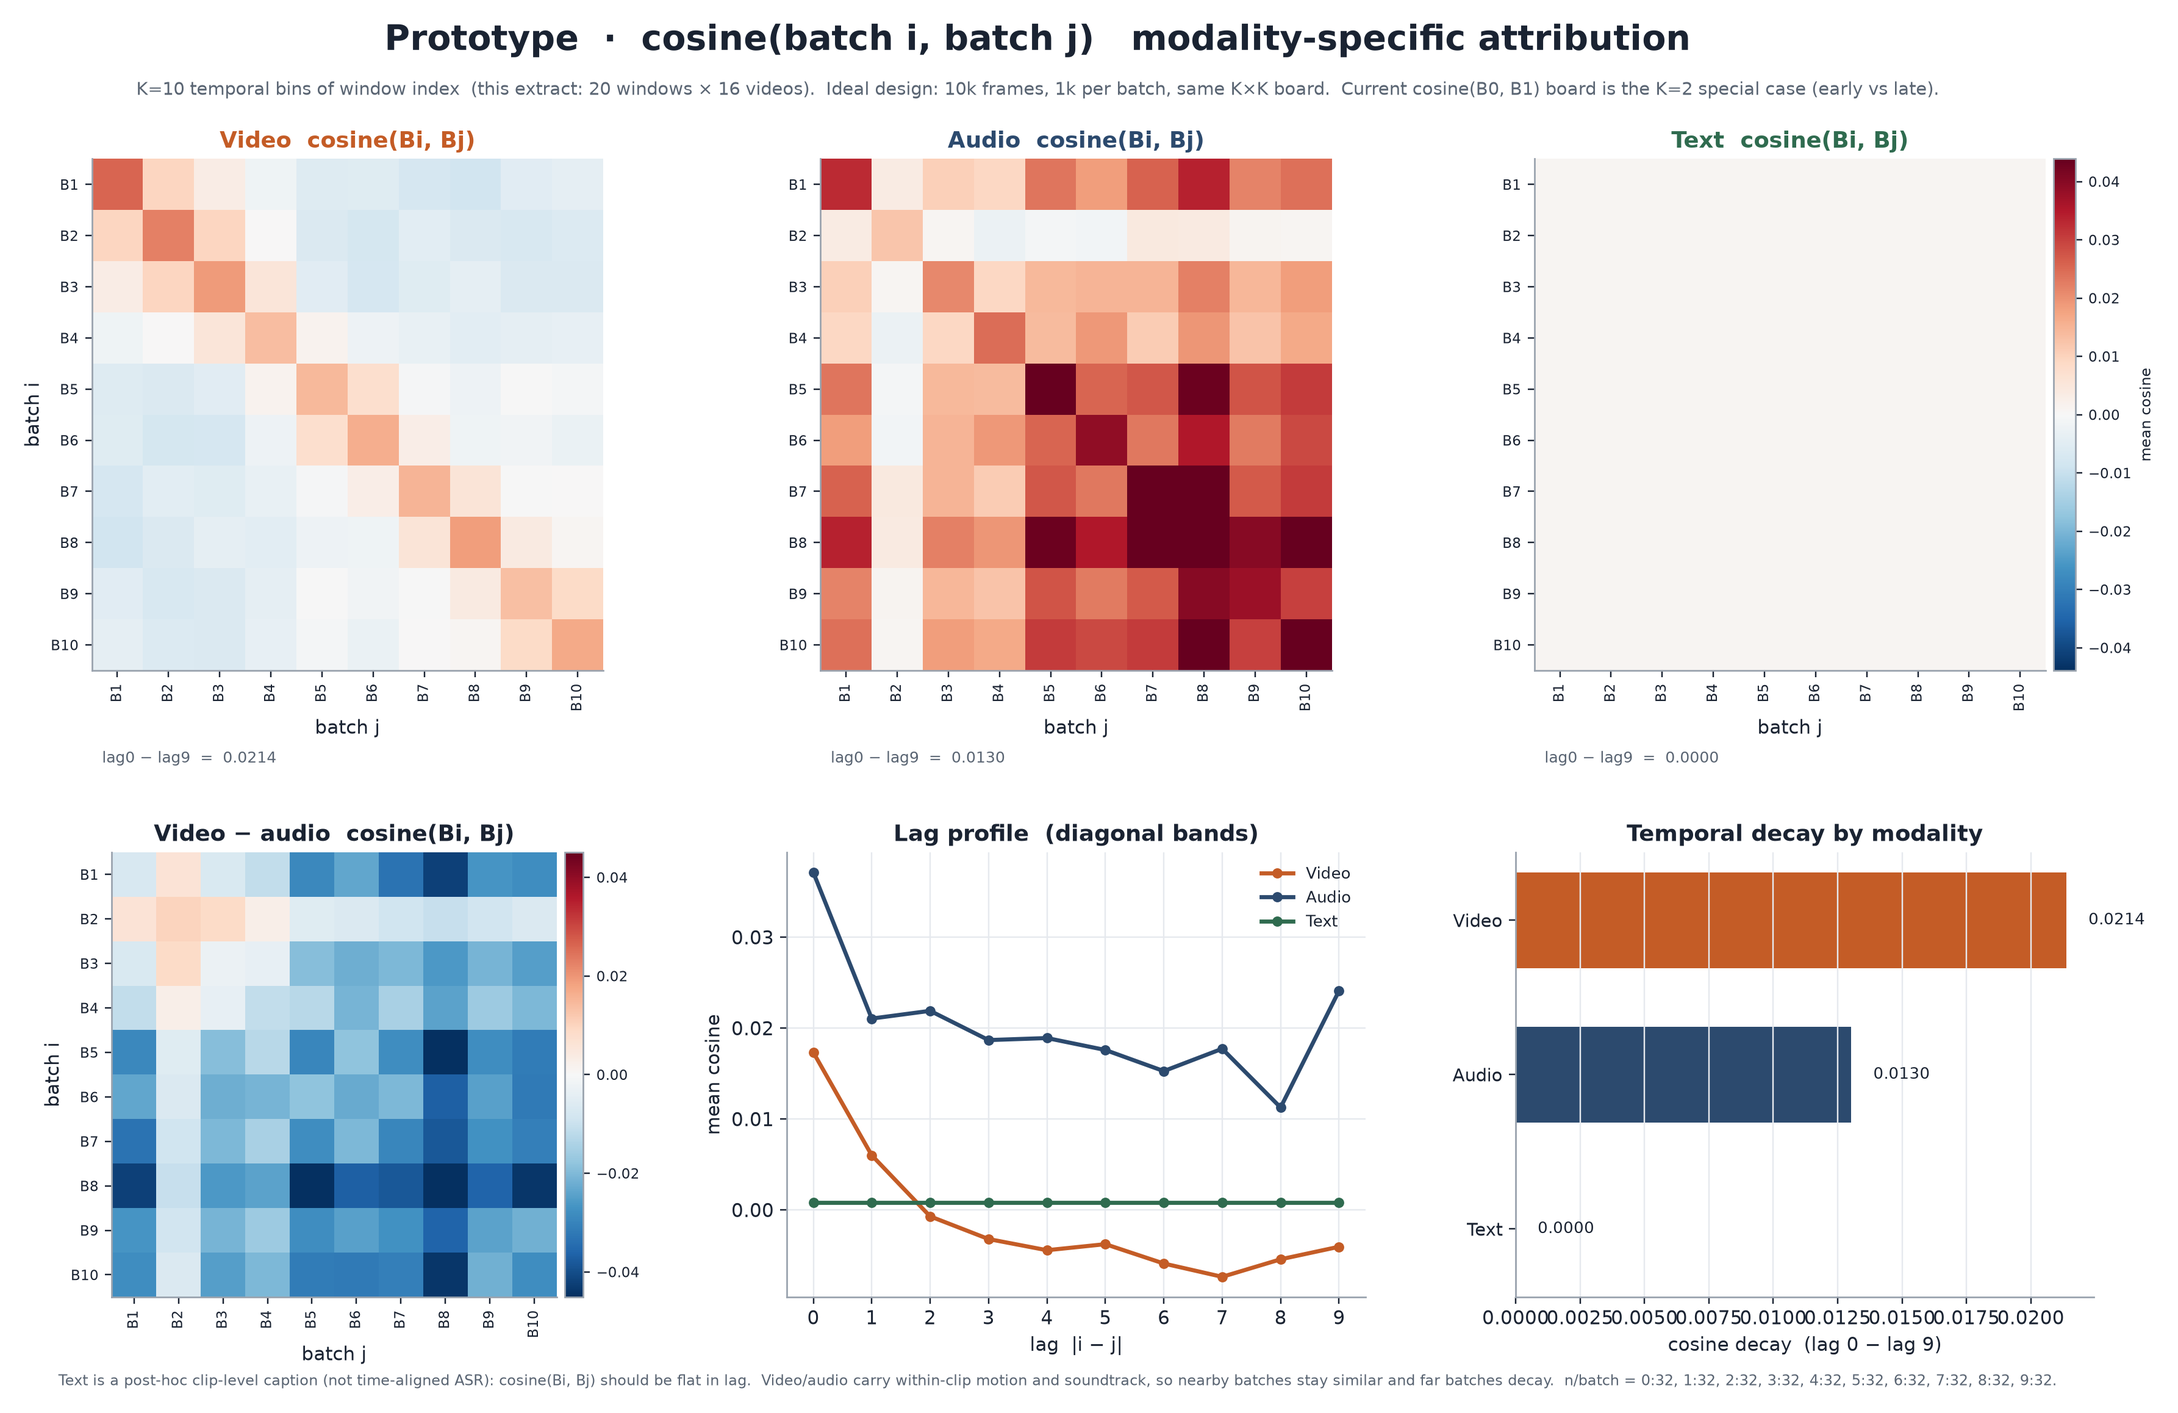
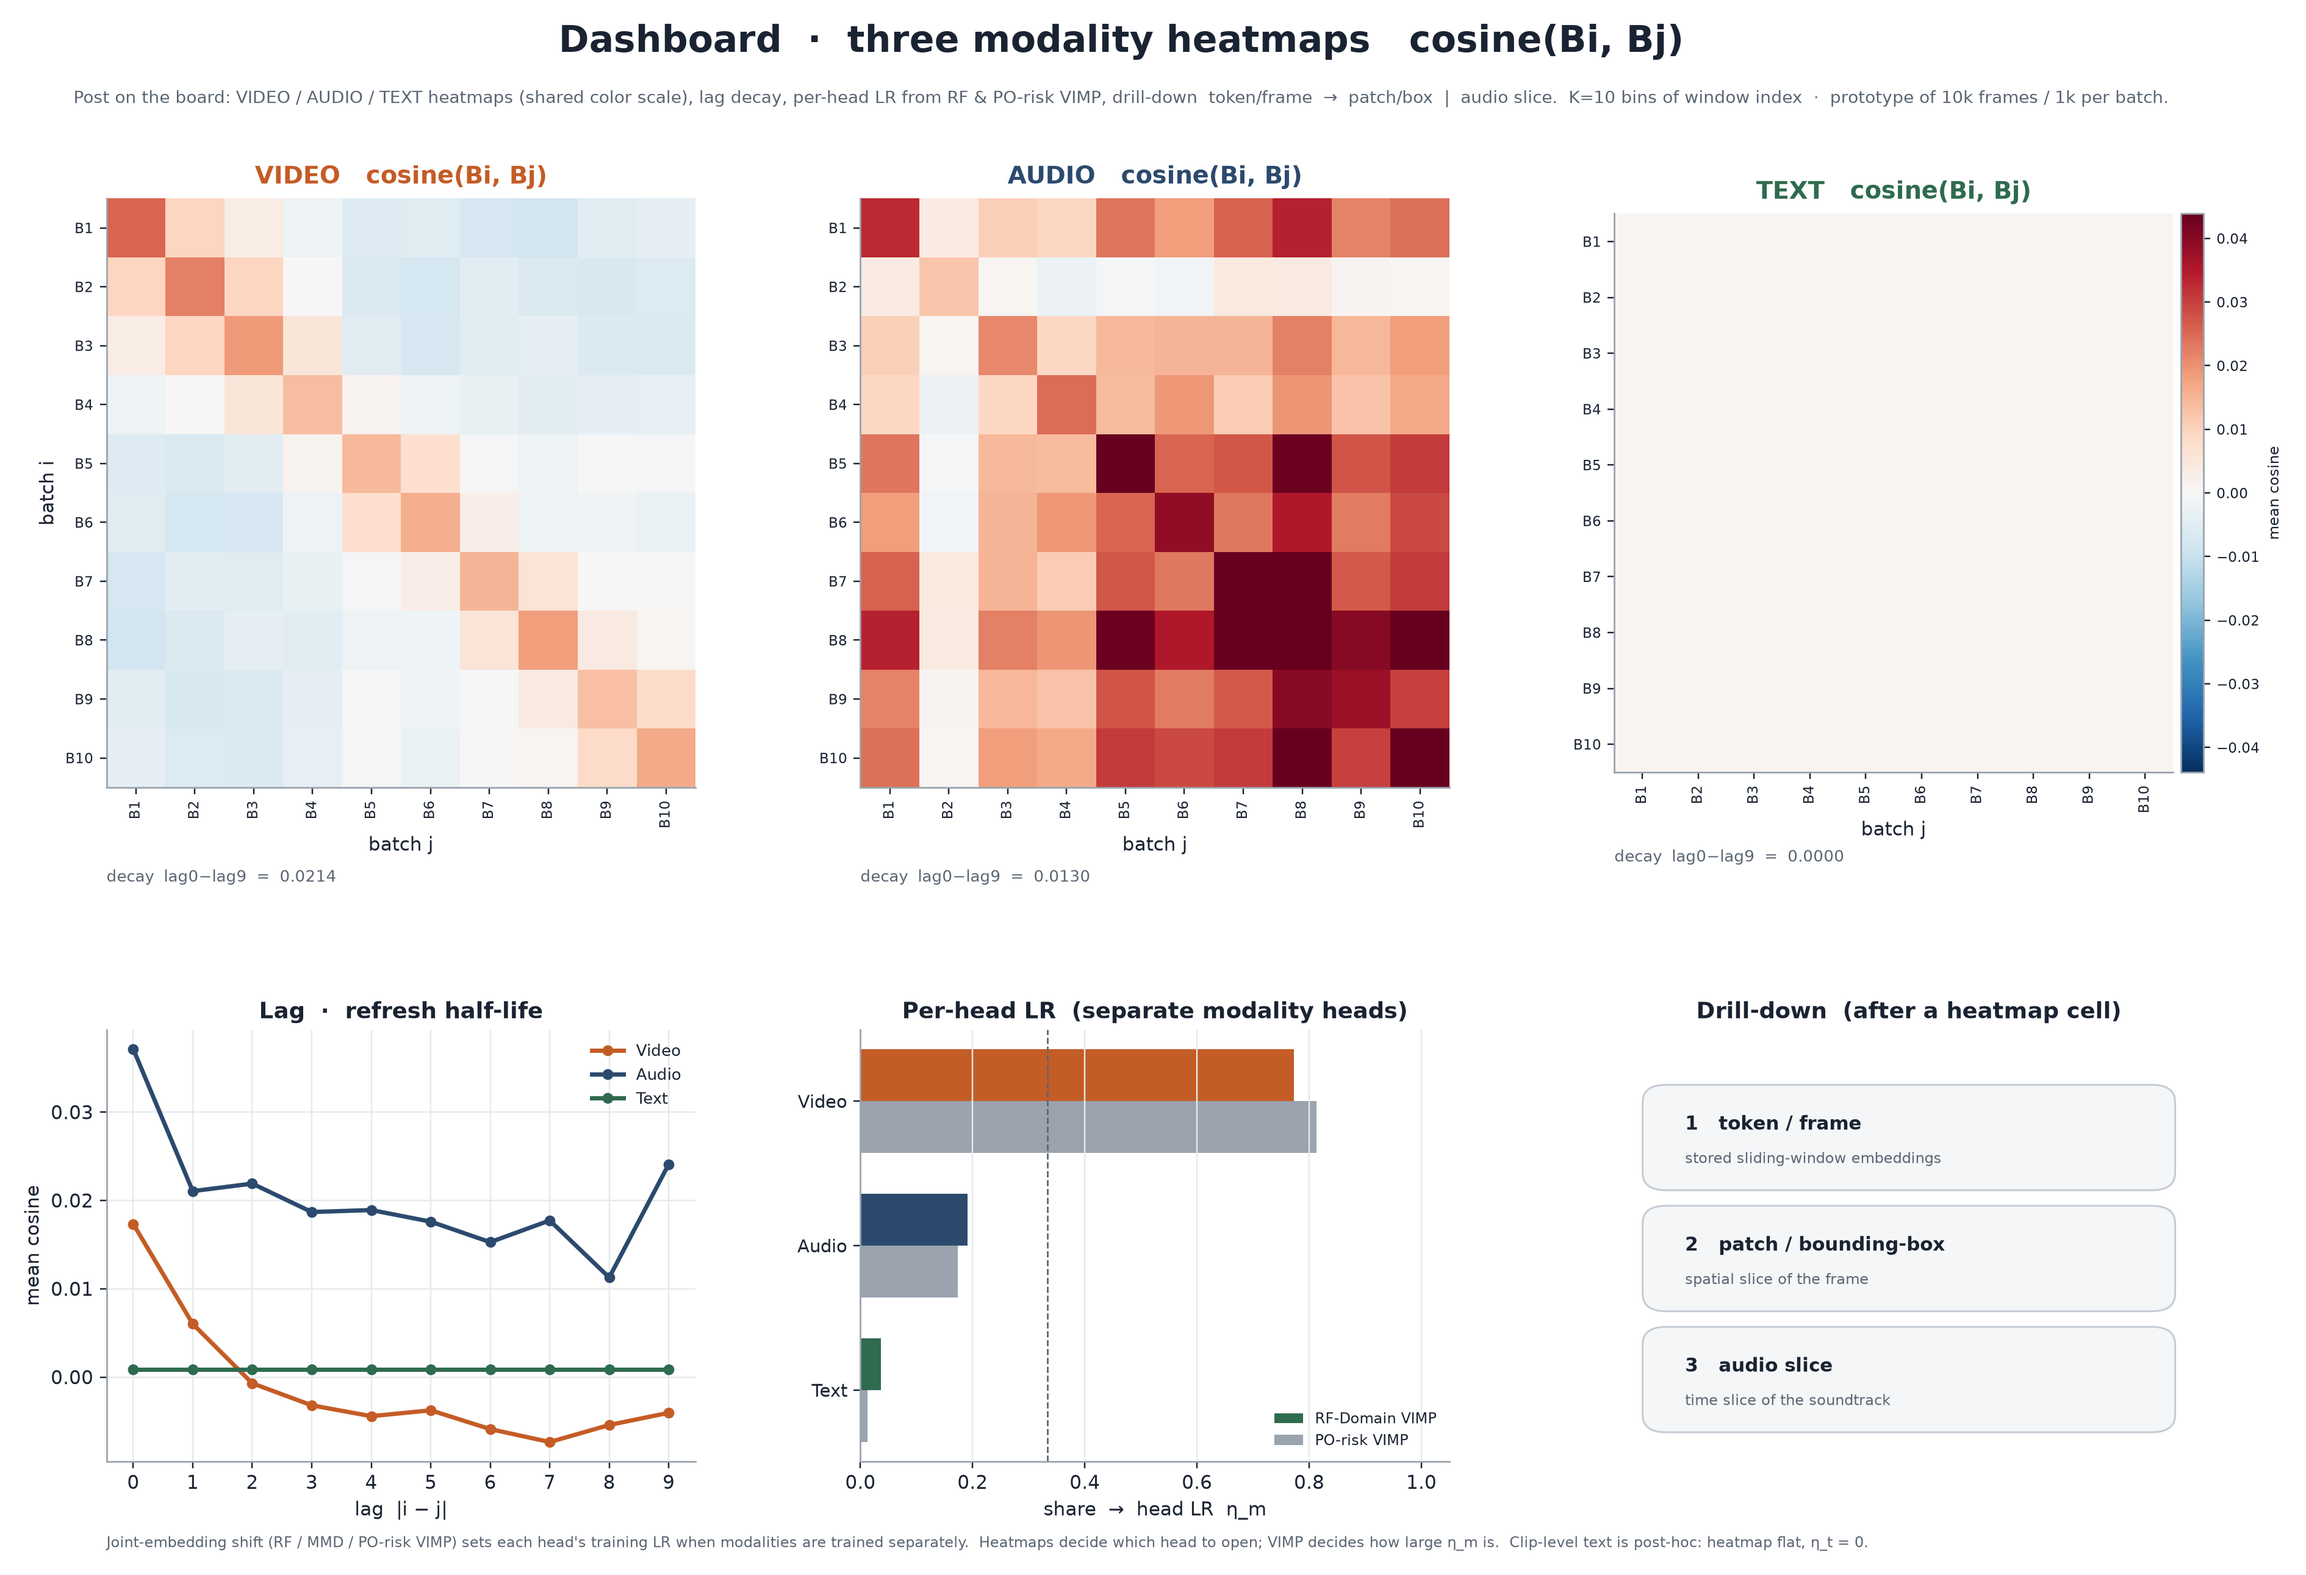
Polish the product dashboard: three modality heatmaps, per-head LR, drill-down.
Board posts VIDEO/AUDIO/TEXT cosine(Bi,Bj), lag half-life, RF/PO-risk
shares as head learning-rate weights, and token/frame → patch/box | audio slice.

diff --git a/Python/src/msrvtt_attribution_plots.py b/Python/src/msrvtt_attribution_plots.py
@@ -464,7 +464,9 @@ def plot_batch_region_board(bundle, result, path: Path, pay=None):
 
 
 def plot_batch_pair_board(bundle, result, path: Path, pay=None, n_batches=10):
-    """Prototype heatmap: cosine(batch i, batch j) per modality."""
+    """Product dashboard: three modality cosine(Bi, Bj) heatmaps + head LR + drill-down."""
+    from matplotlib.patches import FancyBboxPatch
+    from mpl_toolkits.axes_grid1 import make_axes_locatable
     from msrvtt_multimodal_attribution import GROUP_NAMES, batch_pair_payload
 
     _style()
@@ -478,41 +480,42 @@ def plot_batch_pair_board(bundle, result, path: Path, pay=None, n_batches=10):
     vmax = float(np.nanpercentile(np.abs(stacked), 98)) if stacked.size else 0.01
     vmax = max(vmax, 1e-4)
     nrm = TwoSlopeNorm(vmin=-vmax, vcenter=0.0, vmax=vmax)
+    point = (result or {}).get("point") or {}
+    rf = point.get("rf_share") or {"video": 0.772, "audio": 0.191, "text": 0.037}
+    po = point.get("po_feat_share") or {"video": 0.813, "audio": 0.174, "text": 0.013}
 
-    fig = plt.figure(figsize=(16.4, 10.6), dpi=210)
+    fig = plt.figure(figsize=(16.8, 11.8), dpi=210)
     fig.patch.set_facecolor("white")
     gs = GridSpec(
         2,
         3,
         figure=fig,
-        height_ratios=[1.15, 1.0],
-        hspace=0.38,
-        wspace=0.26,
-        left=0.055,
+        height_ratios=[1.38, 0.95],
+        hspace=0.42,
+        wspace=0.28,
+        left=0.05,
         right=0.98,
         top=0.88,
-        bottom=0.08,
+        bottom=0.07,
     )
     fig.suptitle(
-        "Prototype  ·  cosine(batch i, batch j)   modality-specific attribution",
-        fontsize=18.5,
+        "Dashboard  ·  three modality heatmaps   cosine(Bi, Bj)",
+        fontsize=19.5,
         fontweight="bold",
         color=INK,
-        y=0.975,
+        y=0.978,
     )
     fig.text(
         0.5,
-        0.925,
-        "K=%d temporal bins of window index  (this extract: %d windows × %d videos).  "
-        "Ideal design: 10k frames, 1k per batch, same K×K board.  "
-        "Current cosine(B0, B1) board is the K=2 special case (early vs late)."
-        % (k, pay.get("n_windows", 20), pay.get("n_videos", 16)),
+        0.928,
+        "Post on the board: VIDEO / AUDIO / TEXT heatmaps (shared color scale), lag decay, "
+        "per-head LR from RF & PO-risk VIMP, drill-down  token/frame  →  patch/box  |  audio slice.  "
+        "K=%d bins of window index  ·  prototype of 10k frames / 1k per batch."
+        % k,
         ha="center",
-        fontsize=9.4,
+        fontsize=9.3,
         color=MUTED,
     )
-
-    from mpl_toolkits.axes_grid1 import make_axes_locatable
 
     last_im = None
     for i, name in enumerate(GROUP_NAMES):
@@ -521,91 +524,102 @@ def plot_batch_pair_board(bundle, result, path: Path, pay=None, n_batches=10):
         last_im = ax.imshow(M, cmap="RdBu_r", norm=nrm, origin="upper", interpolation="nearest")
         ax.set_xticks(ticks)
         ax.set_yticks(ticks)
-        ax.set_xticklabels(labs, fontsize=7.5, rotation=90)
-        ax.set_yticklabels(labs, fontsize=7.5)
+        ax.set_xticklabels(labs, fontsize=7.4, rotation=90)
+        ax.set_yticklabels(labs, fontsize=7.4)
         ax.set_title(
-            name.capitalize() + "  cosine(Bi, Bj)",
-            fontsize=12.2,
+            name.upper() + "   cosine(Bi, Bj)",
+            fontsize=13.2,
             fontweight="bold",
             color=COLORS[name],
+            pad=8,
         )
         ax.set_xlabel("batch j")
         if i == 0:
             ax.set_ylabel("batch i")
         gap = pay["lag0_minus_lagmax"].get(name, float("nan"))
         ax.text(
-            0.02,
-            -0.18,
-            "lag0 − lag%d  =  %.4f" % (k - 1, gap),
+            0.0,
+            -0.16,
+            "decay  lag0−lag%d  =  %.4f" % (k - 1, gap),
             transform=ax.transAxes,
-            fontsize=8.2,
+            fontsize=8.4,
             color=MUTED,
             clip_on=False,
         )
         if i == 2:
             div = make_axes_locatable(ax)
-            cax = div.append_axes("right", size="4.2%", pad=0.06)
+            cax = div.append_axes("right", size="4.0%", pad=0.06)
             cbar = fig.colorbar(last_im, cax=cax)
             cbar.set_label("mean cosine", fontsize=8)
             cbar.ax.tick_params(labelsize=7.5)
 
-    axd = fig.add_subplot(gs[1, 0])
-    D = np.asarray(pay["video_minus_audio"], dtype=float)
-    dv = float(np.nanpercentile(np.abs(D[np.isfinite(D)]), 98)) if np.isfinite(D).any() else 0.01
-    dv = max(dv, 1e-4)
-    imd = axd.imshow(D, cmap="RdBu_r", norm=TwoSlopeNorm(vmin=-dv, vcenter=0.0, vmax=dv), interpolation="nearest")
-    axd.set_xticks(ticks)
-    axd.set_yticks(ticks)
-    axd.set_xticklabels(labs, fontsize=7.5, rotation=90)
-    axd.set_yticklabels(labs, fontsize=7.5)
-    axd.set_title("Video − audio  cosine(Bi, Bj)", fontsize=12, fontweight="bold")
-    axd.set_xlabel("batch j")
-    axd.set_ylabel("batch i")
-    divd = make_axes_locatable(axd)
-    caxd = divd.append_axes("right", size="4.2%", pad=0.06)
-    fig.colorbar(imd, cax=caxd).ax.tick_params(labelsize=7.5)
-
-    axl = fig.add_subplot(gs[1, 1])
+    axl = fig.add_subplot(gs[1, 0])
     h = np.arange(k)
     for name in GROUP_NAMES:
         axl.plot(
             h,
             pay["lag_cosine"][name],
             color=COLORS[name],
-            lw=2.2,
+            lw=2.3,
             marker="o",
-            ms=4.5,
+            ms=4.8,
             label=name.capitalize(),
         )
     axl.set_xlabel("lag  |i − j|")
     axl.set_ylabel("mean cosine")
-    axl.set_title("Lag profile  (diagonal bands)", fontsize=12, fontweight="bold")
-    axl.legend(frameon=False, fontsize=8.5)
+    axl.set_title("Lag  ·  refresh half-life", fontsize=12.2, fontweight="bold")
+    axl.legend(frameon=False, fontsize=8.5, loc="upper right")
     axl.grid(True, color=GRID)
     axl.set_xticks(h)
 
-    axb = fig.add_subplot(gs[1, 2])
-    names = list(GROUP_NAMES)
-    vals = [pay["lag0_minus_lagmax"][g] for g in names]
-    axb.barh(np.arange(3)[::-1], vals, color=[COLORS[g] for g in names], height=0.62)
-    axb.set_yticks(np.arange(3)[::-1])
-    axb.set_yticklabels([g.capitalize() for g in names], fontsize=9.5)
-    axb.set_xlabel("cosine decay  (lag 0 − lag %d)" % (k - 1))
-    axb.set_title("Temporal decay by modality", fontsize=12, fontweight="bold")
-    axb.axvline(0, color=MUTED, lw=0.8)
-    axb.grid(True, axis="x", color=GRID)
-    span = max(abs(v) for v in vals) if vals else 0.01
-    span = max(span, 1e-4)
-    for i, v in enumerate(vals):
-        axb.text(v + 0.04 * span * (1 if v >= 0 else -1), 2 - i, "%.4f" % v, va="center", fontsize=8.5, color=INK)
+    axr = fig.add_subplot(gs[1, 1])
+    y = np.arange(3)
+    hgt = 0.36
+    rf_v = [rf[g] for g in GROUP_NAMES]
+    po_v = [po[g] for g in GROUP_NAMES]
+    axr.barh(y + hgt / 2, rf_v[::-1], height=hgt, color=[COLORS[g] for g in GROUP_NAMES][::-1], label="RF-Domain VIMP")
+    axr.barh(y - hgt / 2, po_v[::-1], height=hgt, color="#9AA3AE", label="PO-risk VIMP")
+    axr.set_yticks(y)
+    axr.set_yticklabels(["Text", "Audio", "Video"], fontsize=9.5)
+    axr.set_xlabel("share  →  head LR  η_m")
+    axr.set_title("Per-head LR  (separate modality heads)", fontsize=12.0, fontweight="bold")
+    axr.set_xlim(0, 1.05)
+    axr.axvline(1.0 / 3.0, color=MUTED, ls="--", lw=0.9)
+    axr.legend(frameon=False, fontsize=7.8, loc="lower right")
+    axr.grid(True, axis="x", color=GRID)
+
+    axd = fig.add_subplot(gs[1, 2])
+    axd.set_xlim(0, 1)
+    axd.set_ylim(0, 1)
+    axd.axis("off")
+    axd.set_title("Drill-down  (after a heatmap cell)", fontsize=12.0, fontweight="bold")
+    steps = (
+        (0.72, "1   token / frame", "stored sliding-window embeddings"),
+        (0.44, "2   patch / bounding-box", "spatial slice of the frame"),
+        (0.16, "3   audio slice", "time slice of the soundtrack"),
+    )
+    for y0, title, sub in steps:
+        box = FancyBboxPatch(
+            (0.06, y0 - 0.08),
+            0.88,
+            0.22,
+            boxstyle="round,pad=0.012,rounding_size=0.04",
+            facecolor="#F4F6F8",
+            edgecolor="#C5CCD4",
+            lw=1.0,
+            transform=axd.transAxes,
+            clip_on=False,
+        )
+        axd.add_patch(box)
+        axd.text(0.12, y0 + 0.06, title, transform=axd.transAxes, fontsize=10.2, fontweight="bold", color=INK, va="center")
+        axd.text(0.12, y0 - 0.02, sub, transform=axd.transAxes, fontsize=8.0, color=MUTED, va="center")
 
     fig.text(
-        0.055,
-        0.018,
-        "Text is a post-hoc clip-level caption (not time-aligned ASR): cosine(Bi, Bj) should be flat in lag.  "
-        "Video/audio carry within-clip motion and soundtrack, so nearby batches stay similar and far batches decay.  "
-        "n/batch = %s."
-        % ", ".join("%d:%d" % (k0, n) for k0, n in sorted(pay["n_per_batch"].items())),
+        0.05,
+        0.016,
+        "Joint-embedding shift (RF / MMD / PO-risk VIMP) sets each head's training LR when modalities are trained separately.  "
+        "Heatmaps decide which head to open; VIMP decides how large η_m is.  "
+        "Clip-level text is post-hoc: heatmap flat, η_t = 0.",
         fontsize=8.0,
         color=MUTED,
     )
